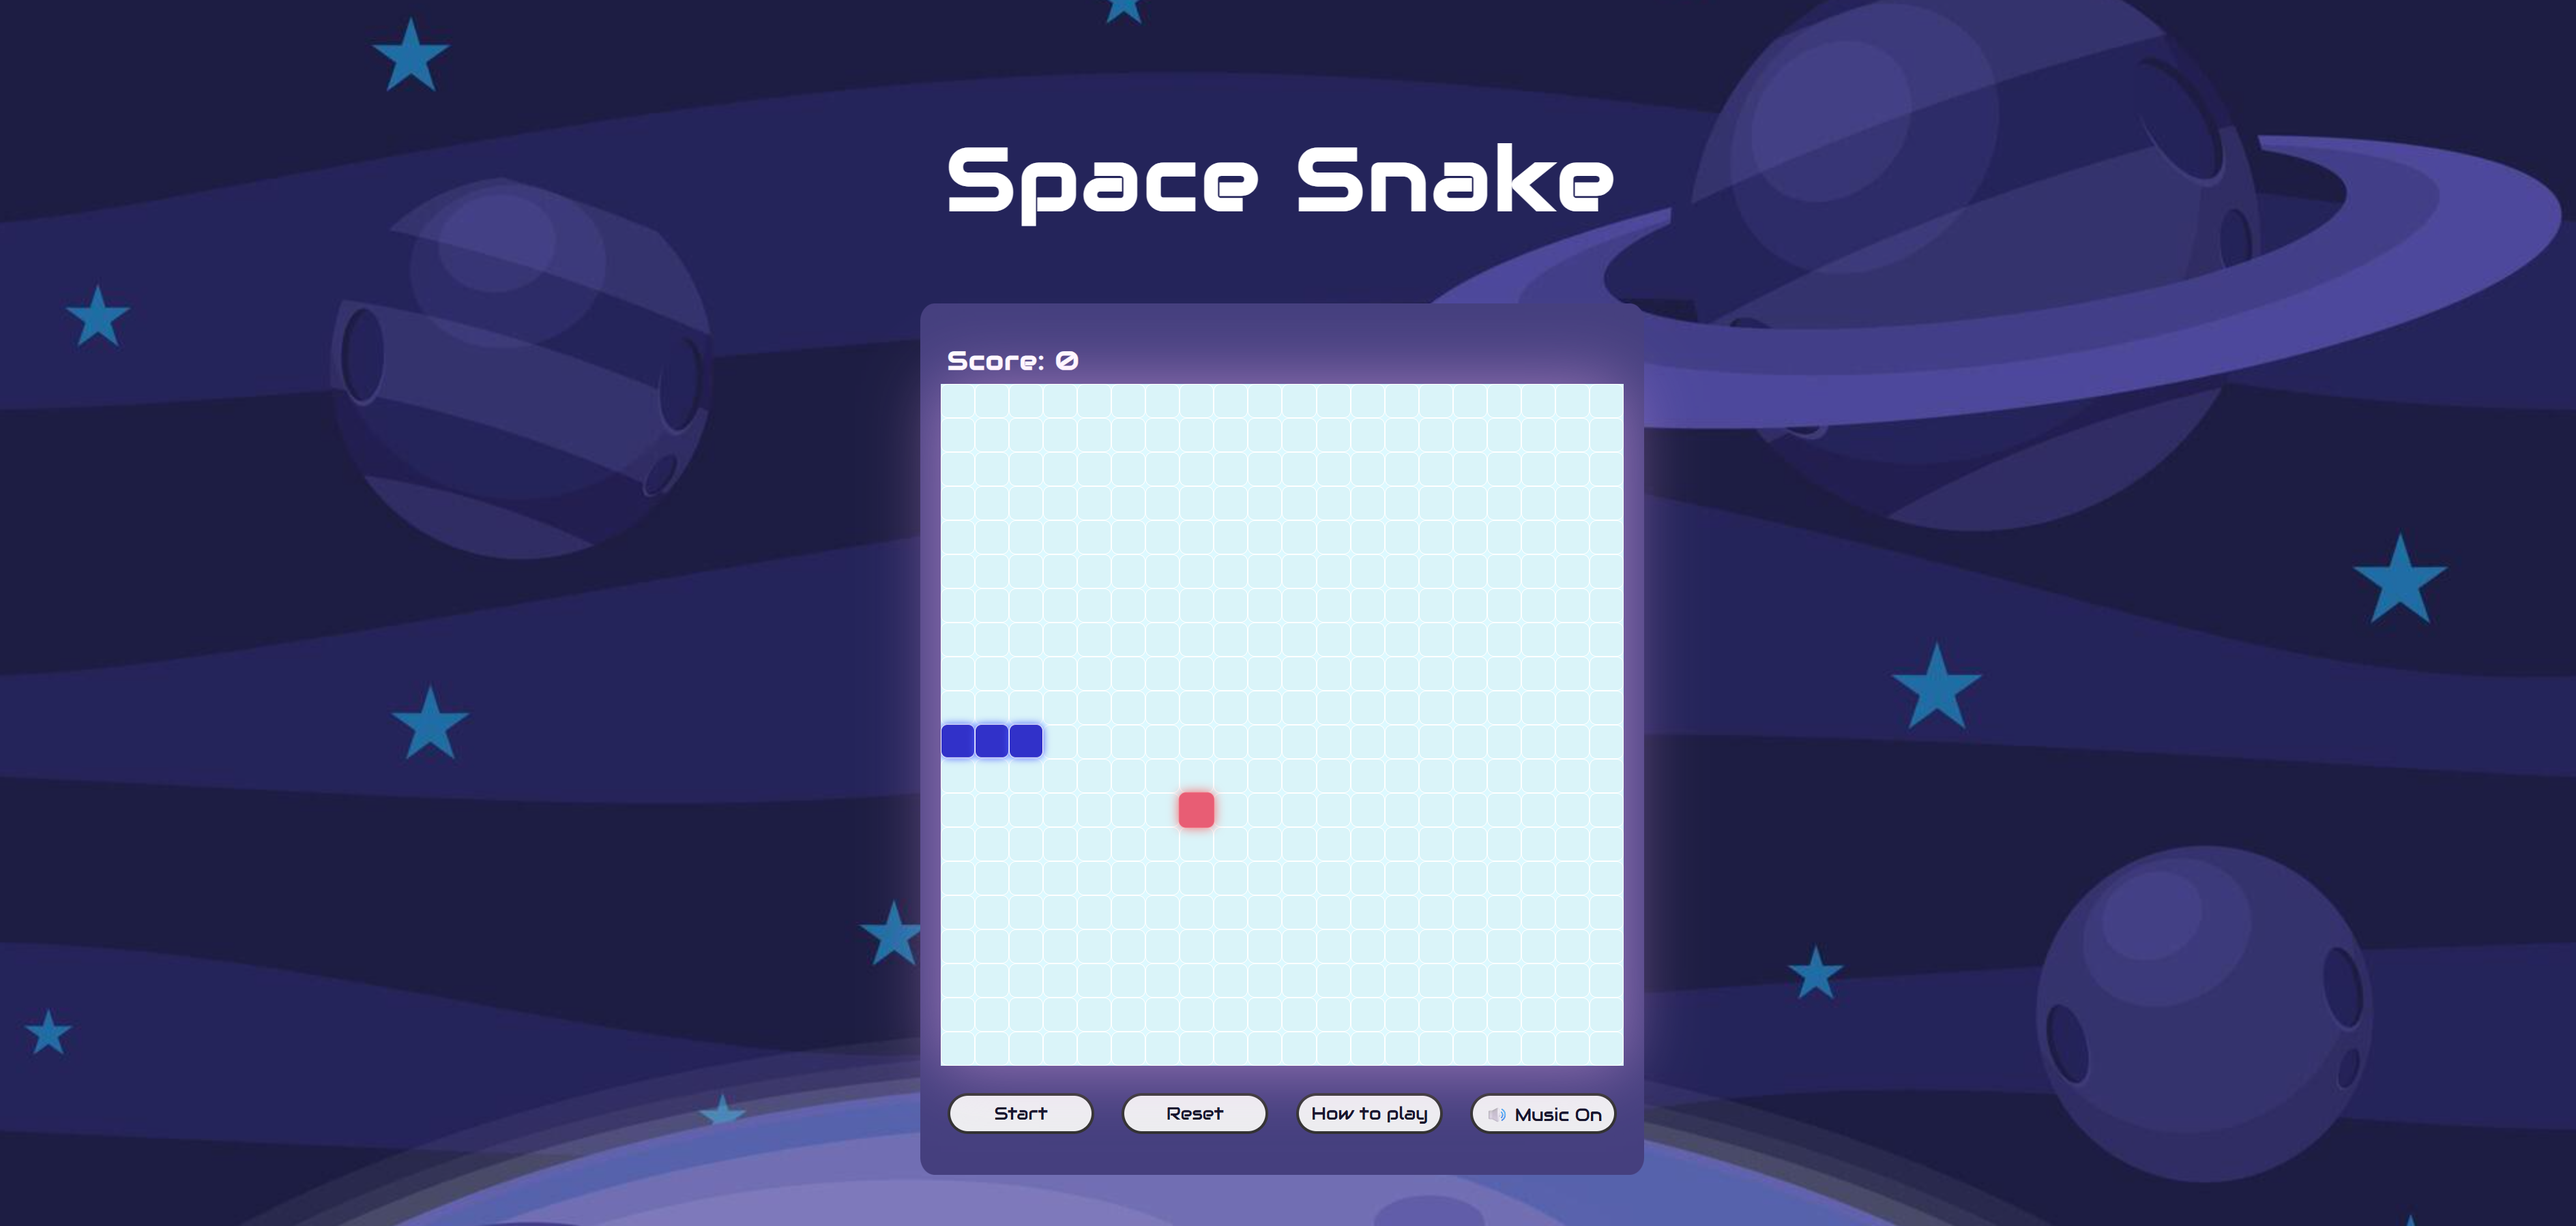
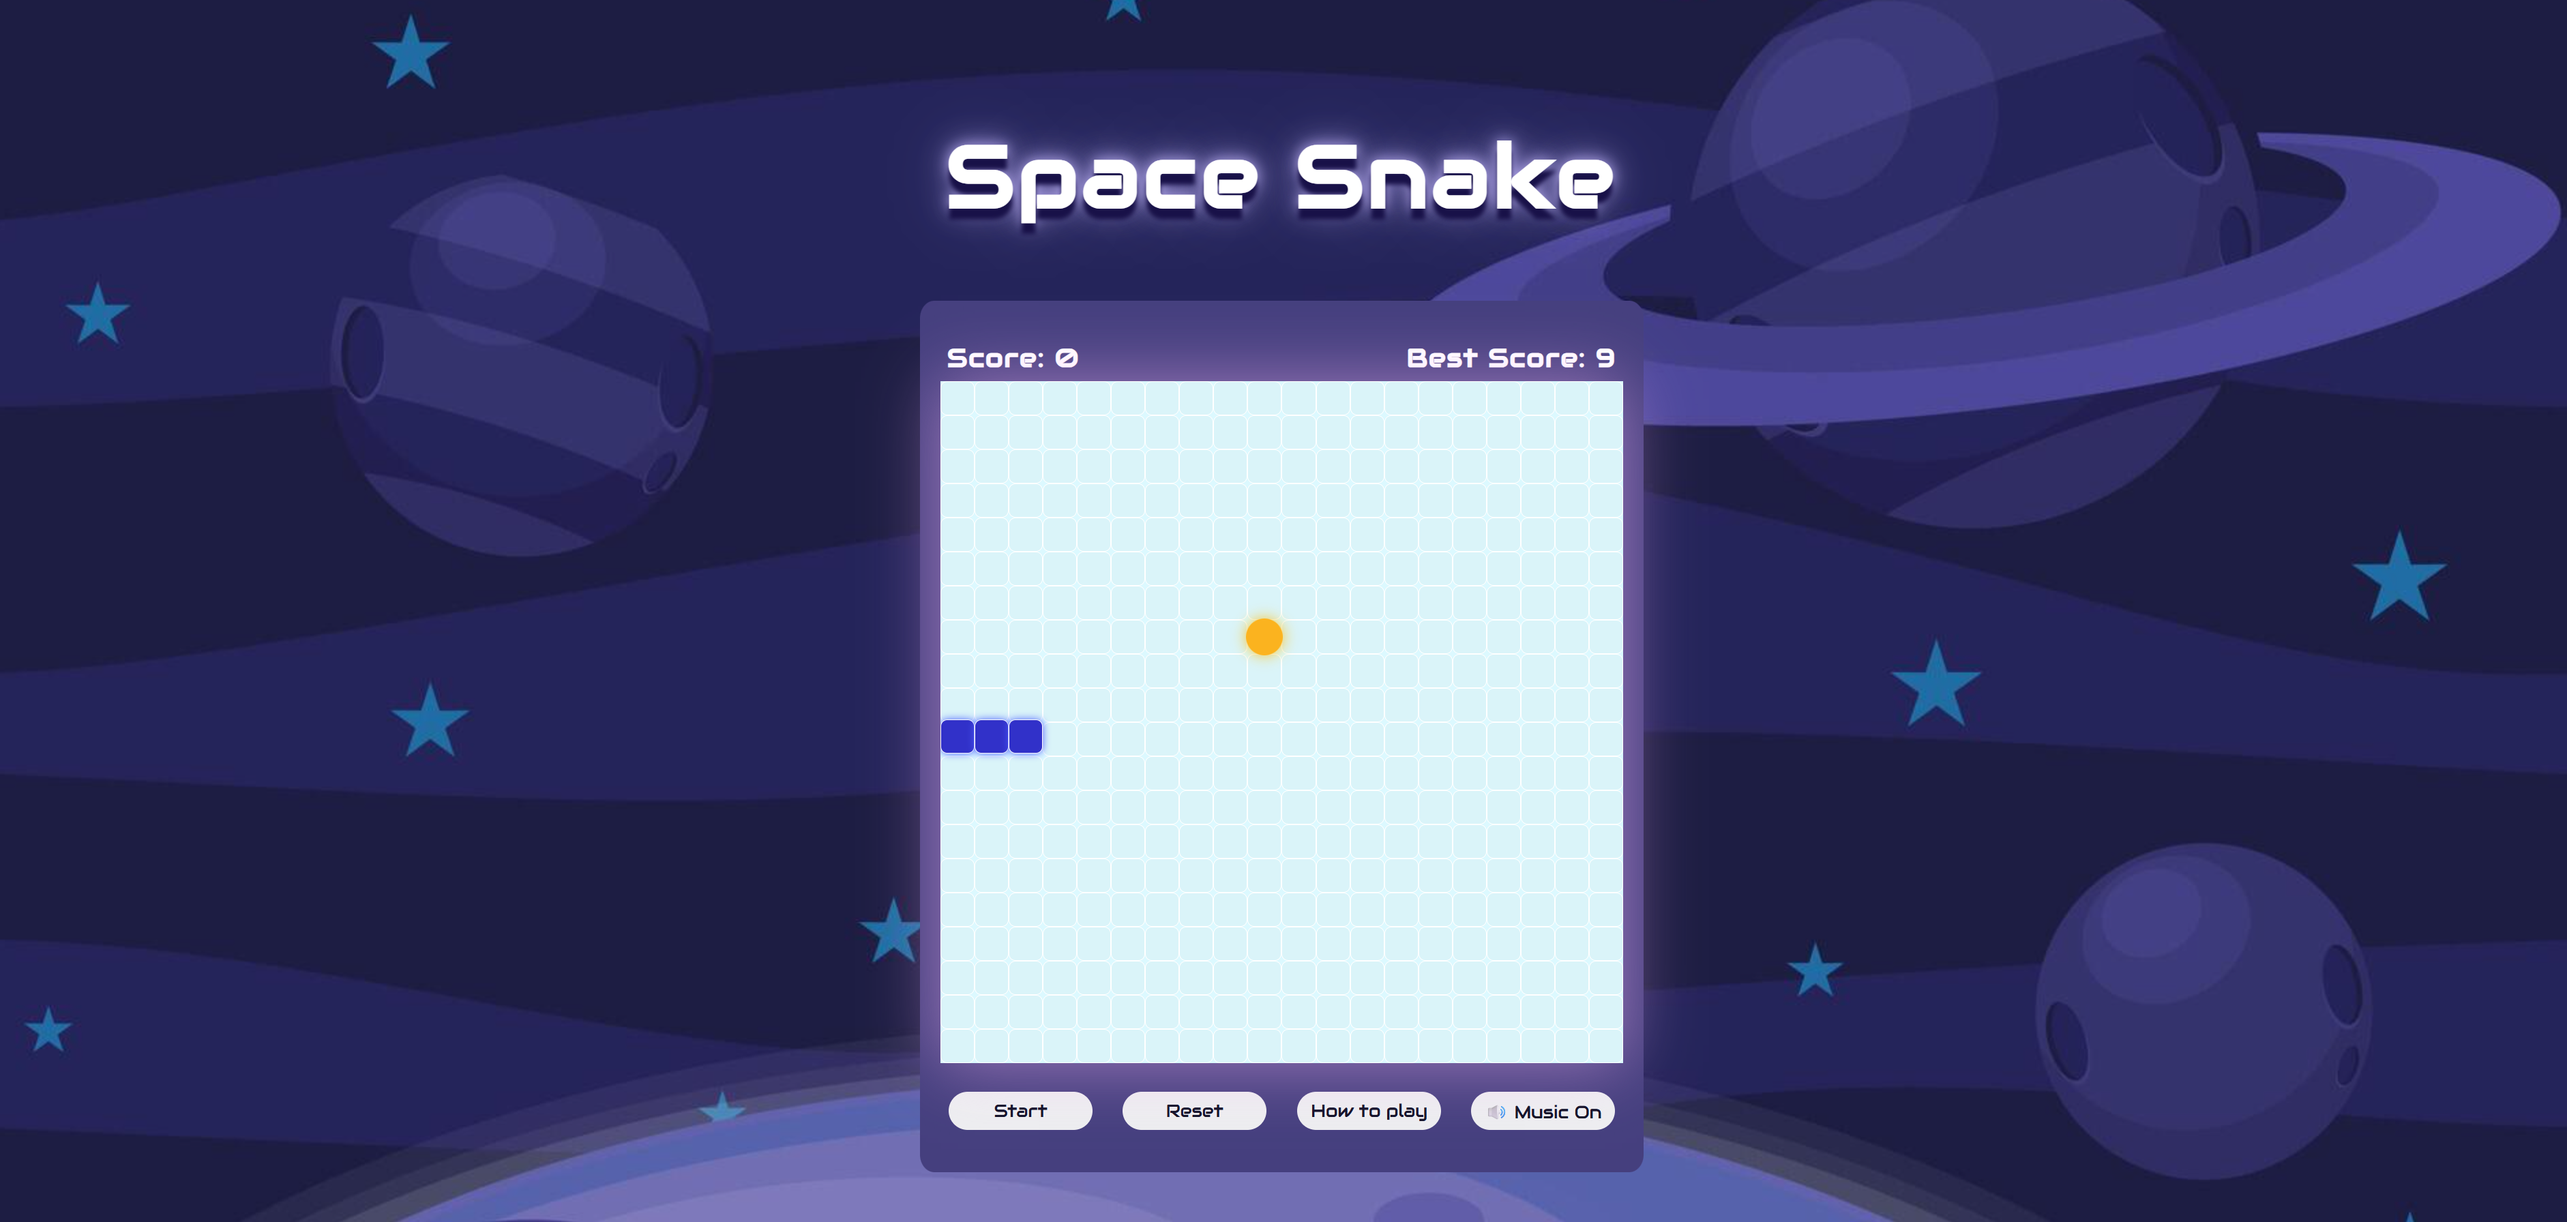
code improvement

diff --git a/js/app.js b/js/app.js
@@ -4,6 +4,7 @@ const width = 20;
 
 /*-------------------------------- Variables --------------------------------*/
 let direction = "right"; // default setting to right
+let directionChange = false; // add to avoid direction change before snake move.
 let food;
 let snakeCells = [200, 201, 202]; // default position
 let score = 0;
@@ -120,6 +121,7 @@ function renderFood() {
 
 // snake need to respond to different directions, wall collision, self collision, and grow once eat the food.
 function movingOnce() {
+  directionChange = false; // this to control user change direction before snake move.
   if (gameOver) return;
   const head = snakeCells[snakeCells.length - 1];
   let newHead;
@@ -144,7 +146,7 @@ function movingOnce() {
     (rightWallCells.includes(head) && direction === "right") || // right wall collision
     (leftWallCells.includes(head) && direction === "left") || // left wall collision
     newHead < 0 || // top wall collision
-    newHead > cells.length || // bottom wall collision
+    newHead >= cells.length || // bottom wall collision
     snakeCells.includes(newHead) // self collison
   ) {
     stopMoving();
@@ -235,14 +237,19 @@ function updateMessage() {
 }
 //checking which direction the user click:
 function checkForDirection(event) {
+  if (directionChange) return;
   if (event.key === "ArrowDown" && direction !== "up") {
     direction = "down";
+    directionChange = true;
   } else if (event.key === "ArrowUp" && direction !== "down") {
     direction = "up";
+    directionChange = true;
   } else if (event.key === "ArrowRight" && direction !== "left") {
     direction = "right";
+    directionChange = true;
   } else if (event.key === "ArrowLeft" && direction !== "right") {
     direction = "left";
+    directionChange = true;
   }
 }
 

diff --git a/css/style.css b/css/style.css
@@ -24,7 +24,10 @@ h1 {
   font-size: 4em;
   margin-top: 50px;
   letter-spacing: 3px;
+  text-shadow: 0px 8px 3px rgb(24, 17, 72), 0 0 10px rgba(194, 181, 252, 0.8),
+    0 0 20px rgba(194, 181, 252, 0.6), 0 0 40px rgba(194, 181, 252, 0.4);
 }
+
 .w {
   width: 530px;
   background-color: #453f7e;
@@ -53,15 +56,6 @@ h1 {
   border-radius: 20%;
 }
 
-.food {
-  background-color: #eb3f59;
-  border: none;
-}
-
-.snake {
-  background-color: #3131c9;
-}
-
 button {
   font-family: inherit;
   background-color: rgb(237, 238, 240);
@@ -72,15 +66,15 @@ button {
   text-align: center;
   margin: 10px;
   cursor: pointer;
-  border: 2px solid rgb(49, 49, 49);
+  border: 1px solid #453f7e;
   outline: none;
   font-size: 0.8em;
   margin-bottom: 20px;
 }
 
 button:hover {
-  color: #00ffff;
-  box-shadow: 0 0 12px #00ffff;
+  color: #febd17;
+  box-shadow: 0 0 12px #ffbb0f;
   transform: scale(1.05);
   transition: 0.3s;
 }
@@ -140,21 +134,27 @@ h3 {
 }
 
 .instructions button:hover {
-  color: #00ffff;
+  color: #ffbb0f;
   transform: scale(1.05);
   transition: 0.3s;
+}
+
+.food {
+  background-color: #ffaa00;
+  border-radius: 50%;
+  transition: transform 0.3s ease;
+  box-shadow: 0 0 10px #ffbb00;
+  border: none;
+}
+
+.snake {
+  background-color: #3131c9;
+  box-shadow: 0 0 6px #4b5eff;
 }
 
 /* shadowing the object */
 .board {
   box-shadow: 0 0 50px rgba(252, 181, 252, 0.5);
-}
-
-.snake {
-  box-shadow: 0 0 6px #4b5eff;
-}
-.food {
-  box-shadow: 0 0 8px #ff4b4b;
 }
 
 .snake {
